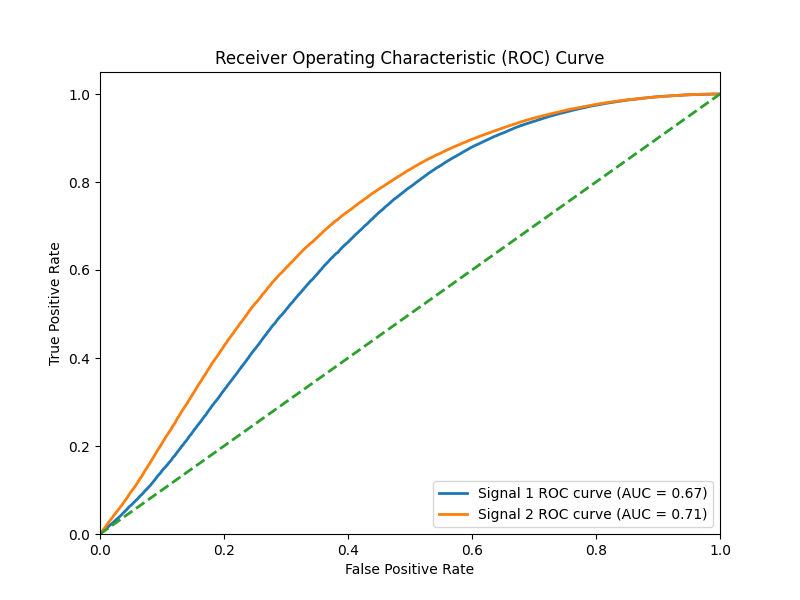
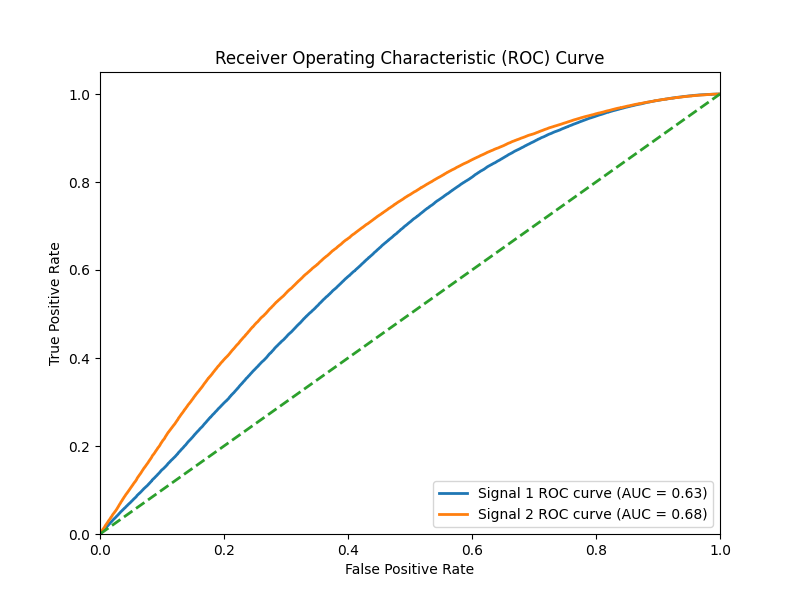
Testing with standard scaling and 21, 14 layer dimensions

diff --git a/test.py b/test.py
@@ -131,12 +131,12 @@ loss_sig2_total = loss_sig2.sum(axis=1) / 42
 # Plot Total Reconstruction Error
 nbins = 20
 fig, axes = plt.subplots(figsize=(8,6))
-axes.hist([loss_bkg_total], nbins, range=(0, 0.3), density=0, histtype='step', label=['Background'], stacked=True, alpha=1)
-axes.hist([loss_sig1_total], nbins, range=(0, 0.3), density=0, histtype='step', label=['Signal 1'], stacked=True, alpha=0.9)
-axes.hist([loss_sig2_total], nbins, range=(0, 0.3), density=0, histtype='step', label=['Signal 2'], stacked=True, alpha=0.9)
+axes.hist([loss_bkg_total], nbins, range=(0, 0.6), density=0, histtype='step', label=['Background'], stacked=True, alpha=1)
+axes.hist([loss_sig1_total], nbins, range=(0, 0.6), density=0, histtype='step', label=['Signal 1'], stacked=True, alpha=0.9)
+axes.hist([loss_sig2_total], nbins, range=(0, 0.6), density=0, histtype='step', label=['Signal 2'], stacked=True, alpha=0.9)
 axes.set_xlabel(r"Reconstruction Error")
 axes.set_ylabel("Events")
-axes.set_xlim(0, 0.3)
+axes.set_xlim(0, 0.6)
 axes.legend(loc='upper right')
 fig.savefig(f"figs/testing/reconstruction_error_{scale}_{mid_dim}_{latent_dim}.png")
 
